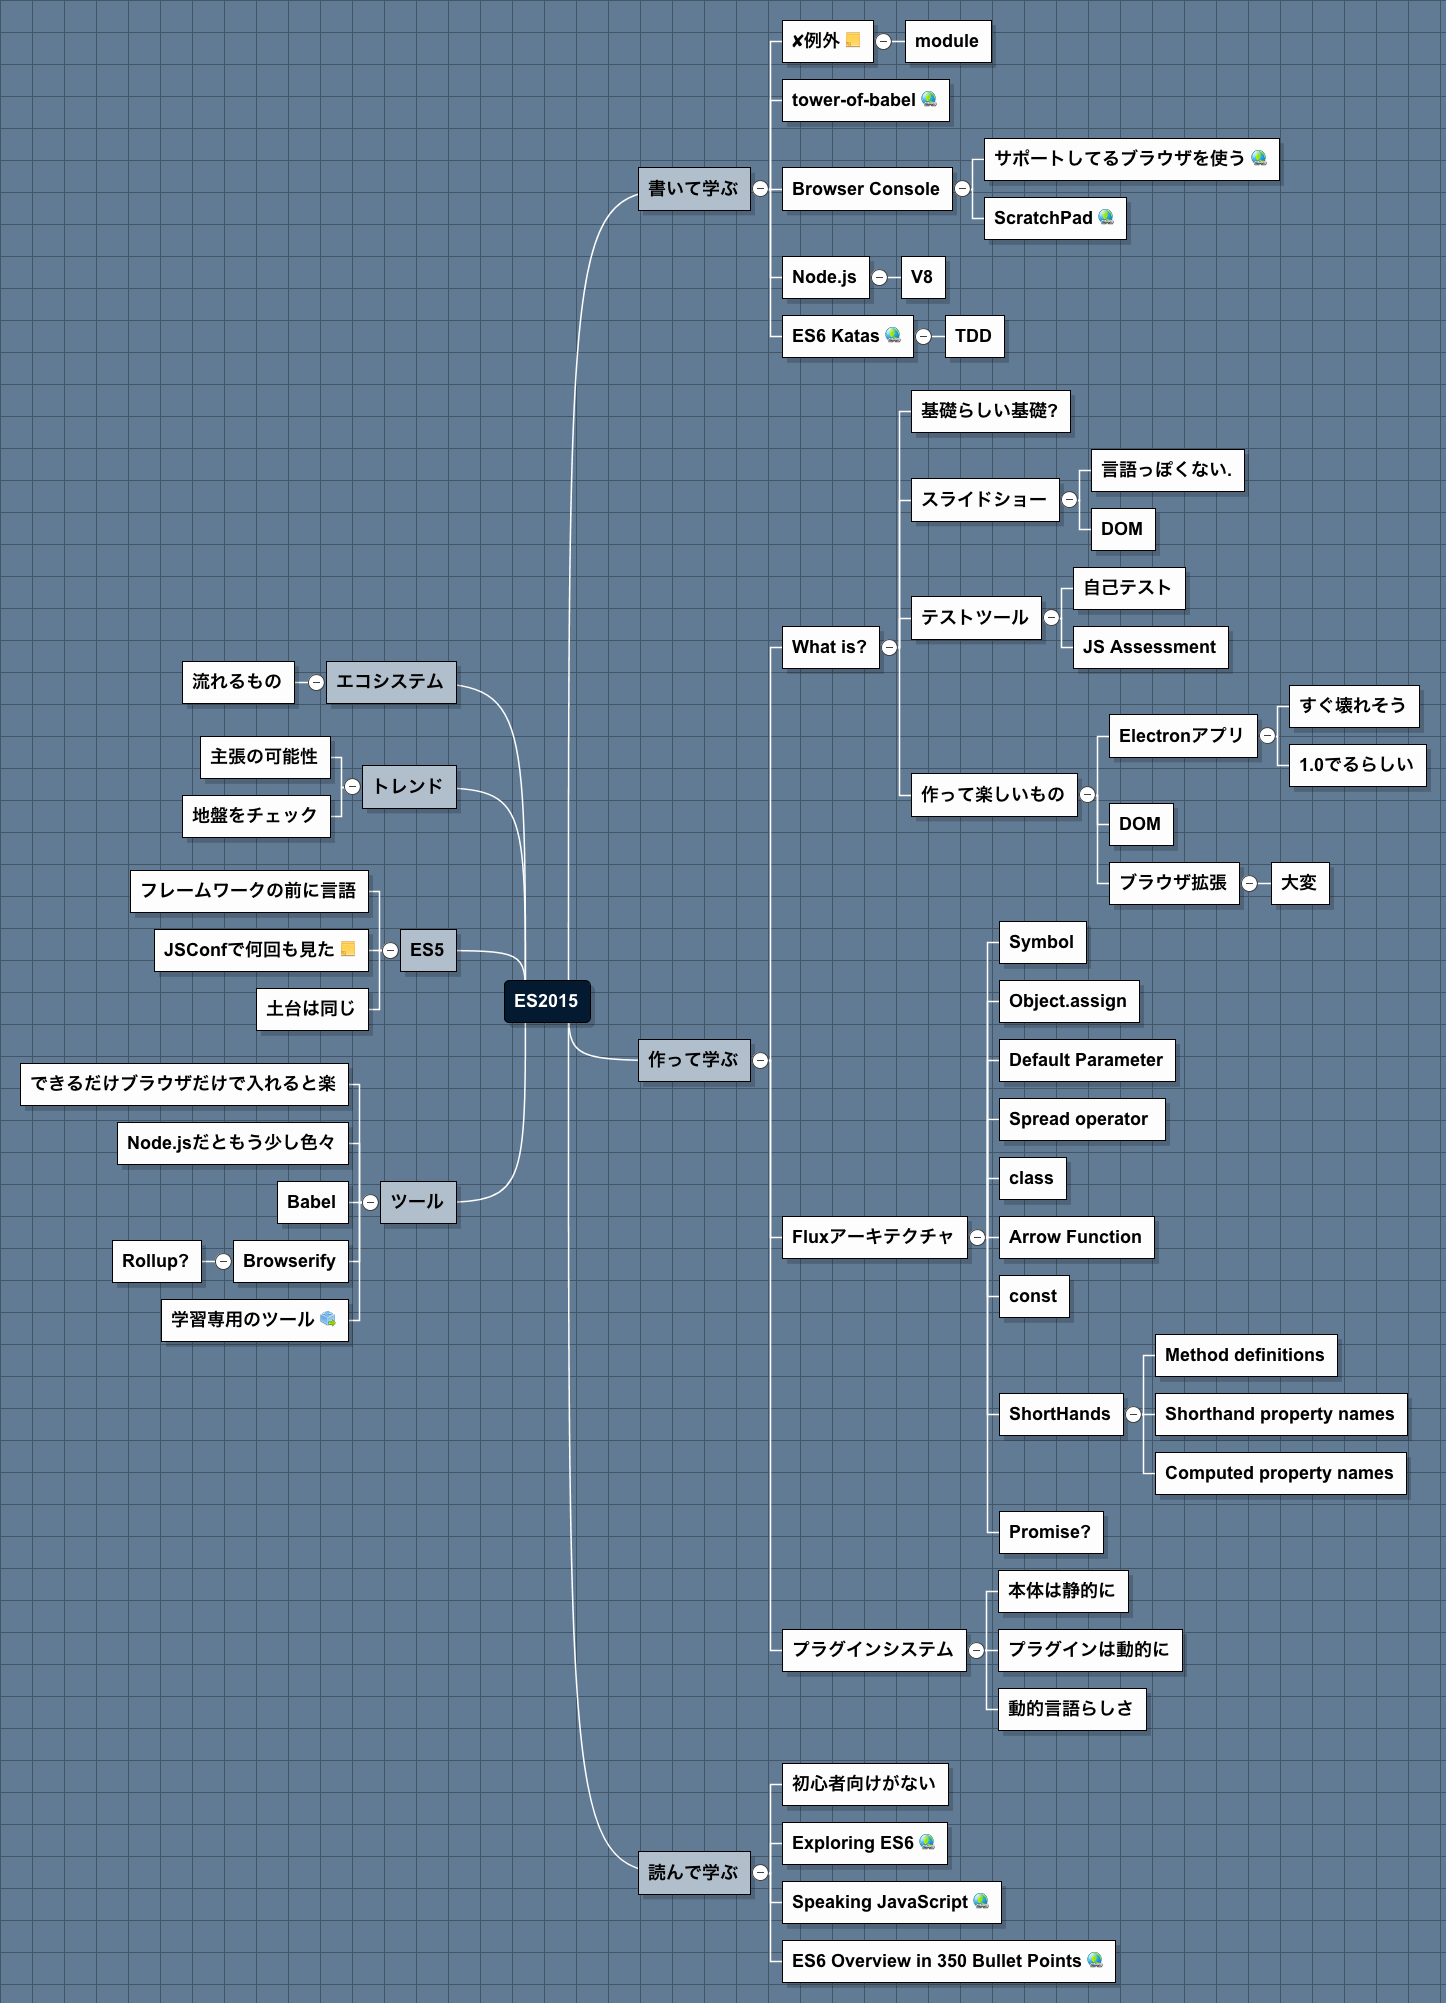
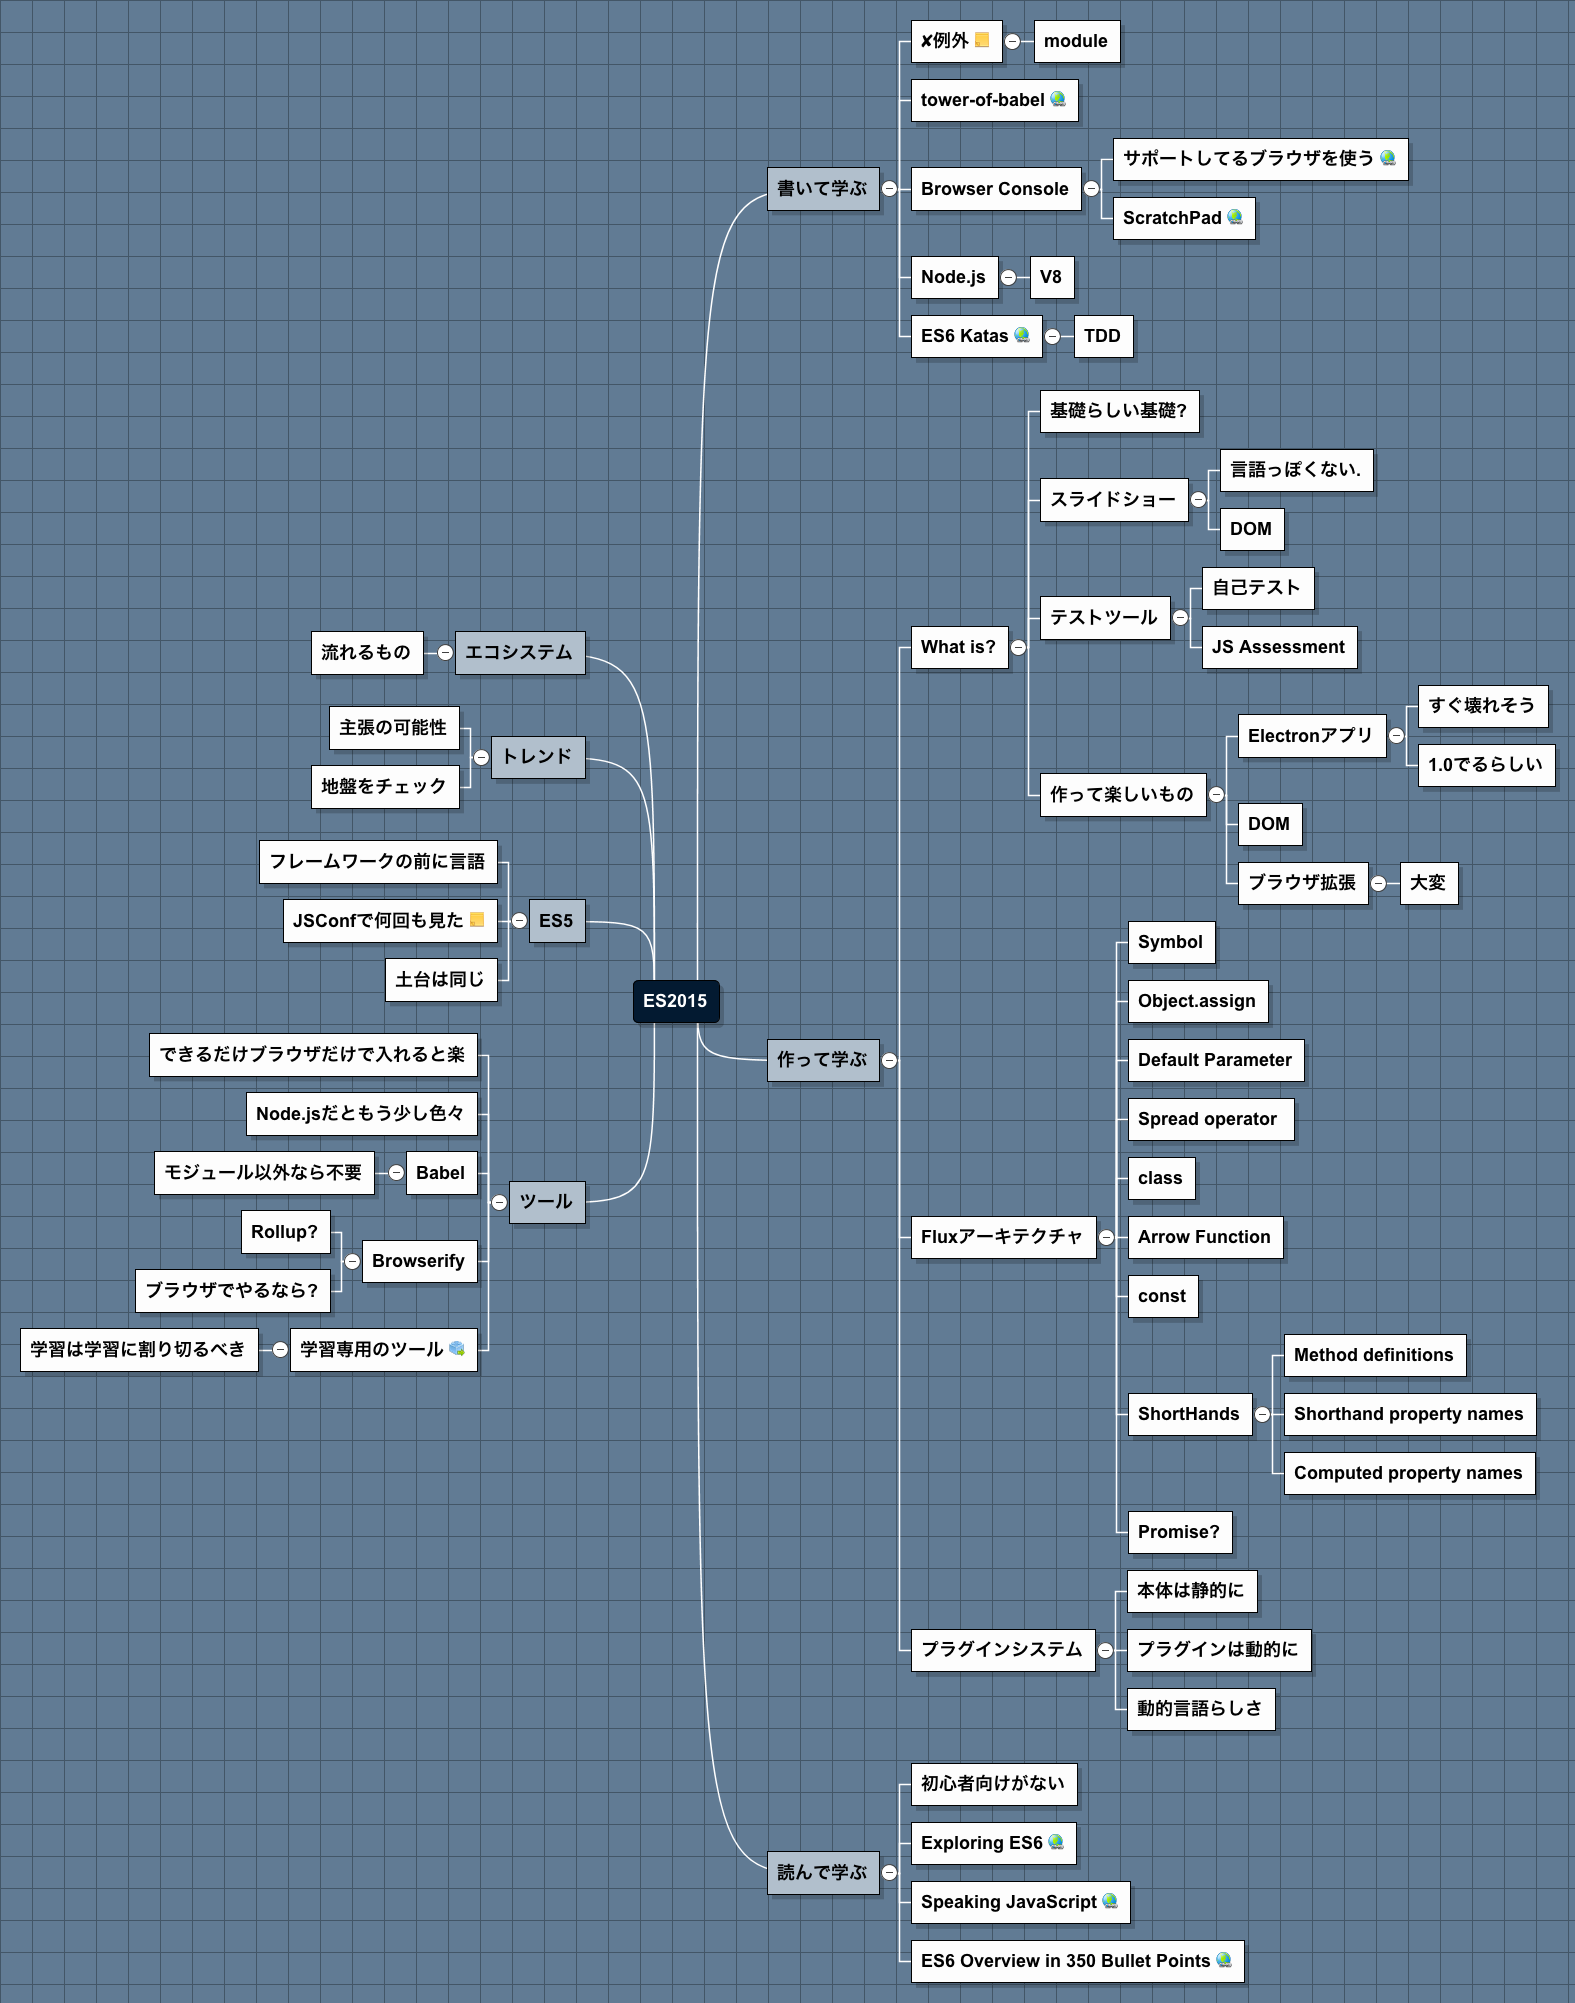
Update README

Changed region(s): [[0.0, 0.0, 0.9959, 0.8667], [0.4357, 0.7119, 0.8091, 1.0]]

diff --git a/README.md b/README.md
@@ -1,9 +1,8 @@
 <!--
 Generated by NB Mind Map Plugin (https://github.com/raydac/netbeans-mmd-plugin)
-2015-12-13 23:14:34.835
+2015-12-13 23:22:47.636
 -->
-# How to learn ES2015
-
+# ES2015
 ![mingmap](./mindmap.png)
 
 ## エコシステム
@@ -35,12 +34,18 @@ https://www.youtube.com/watch?v=kGsvoAbddBY&amp;list=PL37ZVnwpeshG7ThPHHHRvPFTeU
 
 ### Babel
 
+#### モジュール以外なら不要
+
 ### Browserify
 
 #### Rollup?
 
+#### ブラウザでやるなら?
+
 ### 学習専用のツール
 *Related to: [tower\-of\-babel](#1519BB13A3AA)*  
+
+#### 学習は学習に割り切るべき
 
 ## 書いて学ぶ
 
